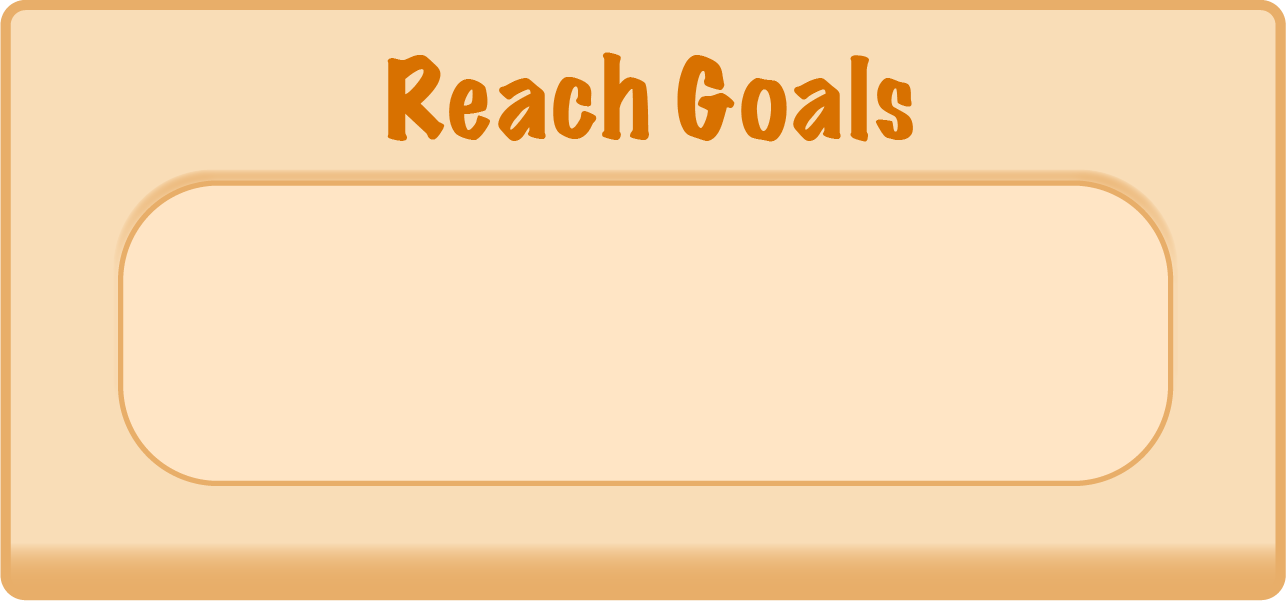
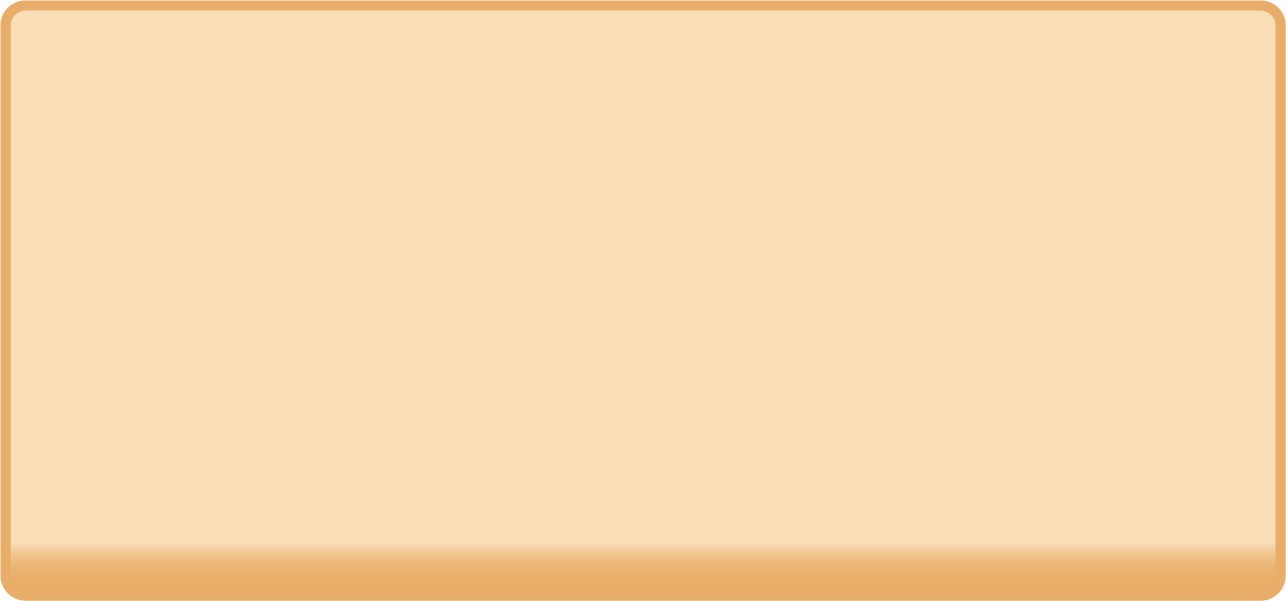
popup rect düzenlenmesi

diff --git a/Assets/CandyMatch3Kit/Scripts/Game/Popups/LevelGoalsPopup.cs b/Assets/CandyMatch3Kit/Scripts/Game/Popups/LevelGoalsPopup.cs
@@ -31,6 +31,7 @@ namespace GameVanilla.Game.Popups
         [SerializeField]
         private Image background;
 
+        private int _ekranGenisligi;
 #pragma warning restore 649
 
         /// <summary>
@@ -50,7 +51,10 @@ namespace GameVanilla.Game.Popups
         {
             base.Start();
             StartCoroutine(AutoKill());
-            background.rectTransform.sizeDelta = new Vector2(background.rectTransform.sizeDelta.x,1285+Screen.width/1285);
+            background.rectTransform.sizeDelta = new Vector2(Screen.width, 601);
+            Debug.Log("screen width:"+Screen.width);
+            _ekranGenisligi= Screen.width;
+            Debug.Log("popup width:" + _ekranGenisligi);
         }
 
         /// <summary>
